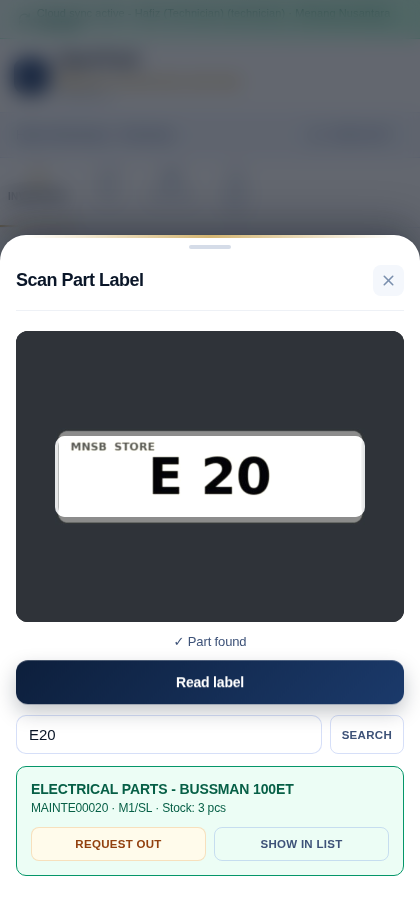
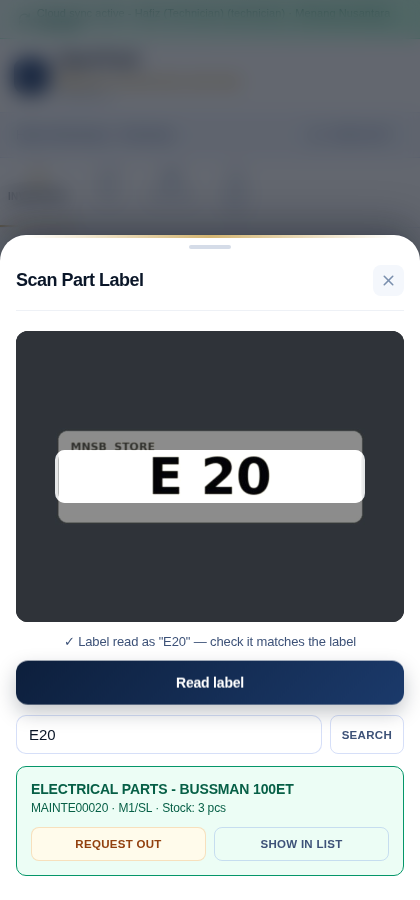
Scan Part Label: never open the wrong part on a misread
- Up to 3 pictures; a part opens only when two agree or a whole code is read.
  Otherwise the parts read are offered to pick from.
- One-line box so other label text (name, location) stays out; reads under
  3 characters (e.g. M1 from M1/SL) ignored; whole code beats short code.
- Shows "Label read as ..." so the user can check against the label.

Claude-Session: https://claude.ai/code/session_01H4NLRU5b8PG19nzesgo6Fy

diff --git a/public/index.html b/public/index.html
@@ -4203,7 +4203,7 @@ async function doPasswordReset(){
 .search-wrap input#s-inv{padding-right:48px}
 #m-label .lbl-view{position:relative;width:100%;border-radius:12px;overflow:hidden;background:#000;aspect-ratio:4/3}
 #m-label video{width:100%;height:100%;object-fit:cover;display:block}
-#m-label .lbl-box{position:absolute;left:10%;width:80%;top:36%;height:28%;border:3px solid rgba(255,255,255,.85);border-radius:10px;box-shadow:0 0 0 9999px rgba(0,0,0,.45);pointer-events:none}
+#m-label .lbl-box{position:absolute;left:10%;width:80%;top:41%;height:18%;border:3px solid rgba(255,255,255,.85);border-radius:10px;box-shadow:0 0 0 9999px rgba(0,0,0,.45);pointer-events:none}
 #m-label .lbl-row{display:flex;gap:8px;margin-top:10px}
 #m-label .lbl-row input{flex:1;min-width:0;box-sizing:border-box;padding:10px 12px;border:1px solid var(--border2,var(--border));border-radius:var(--radius);font-size:15px;font-family:inherit;text-transform:uppercase;background:var(--bg);color:var(--text)}
 #m-label .lbl-pick{display:flex;flex-direction:column;gap:6px;margin-top:10px;max-height:260px;overflow:auto}
@@ -4218,7 +4218,7 @@ async function doPasswordReset(){
     <button class="close" aria-label="Close" onclick="closeLabelScan()"><svg viewBox="0 0 24 24"><line x1="18" y1="6" x2="6" y2="18"/><line x1="6" y1="6" x2="18" y2="18"/></svg></button>
   </div>
   <div class="lbl-view"><video id="lbl-video" playsinline muted></video><div class="lbl-box"></div></div>
-  <div id="lbl-status" style="text-align:center;padding:12px 0 2px;font-size:13px;color:var(--text2)">Fit the part code inside the box, then tap Read label</div>
+  <div id="lbl-status" style="text-align:center;padding:12px 0 2px;font-size:13px;color:var(--text2)">Fit only the part code inside the box, hold steady, then tap Read label</div>
   <button class="sub-btn" id="lbl-read-btn" onclick="readLabel()" style="margin-top:10px">Read label</button>
   <div class="lbl-row">
     <input id="lbl-text" placeholder="Code, e.g. E12" autocomplete="off" spellcheck="false" onkeydown="if(event.key==='Enter')findLabelPart(this.value)">
@@ -4242,7 +4242,7 @@ async function openLabelScan(){
   document.getElementById('m-label').classList.add('open');
   document.getElementById('lbl-results').innerHTML='';
   document.getElementById('lbl-text').value='';
-  lblStatus('Fit the part code inside the box, then tap Read label');
+  lblStatus('Fit only the part code inside the box, hold steady, then tap Read label');
   loadOcr().catch(()=>{});   // start downloading while the camera opens
   try{
     lblStream=await navigator.mediaDevices.getUserMedia({video:{facingMode:{ideal:'environment'},width:{ideal:1920},height:{ideal:1080}}});
@@ -4274,7 +4274,7 @@ function loadOcr(){
 
 // The part of the frame inside the box, 800px wide, high-contrast grey, white margin
 function labelCanvas(src,sw,sh){
-  const x=sw*0.10, y=sh*0.36, w=sw*0.80, h=sh*0.28;
+  const x=sw*0.10, y=sh*0.41, w=sw*0.80, h=sh*0.18;
   const W=800, H=Math.round(h*W/w), pad=24, c=document.createElement('canvas');
   c.width=W+pad*2; c.height=H+pad*2;
   const g=c.getContext('2d'); g.fillStyle='#fff'; g.fillRect(0,0,c.width,c.height); g.drawImage(src,x,y,w,h,pad,pad,W,H);
@@ -4317,6 +4317,19 @@ function labelMatches(cand){
   return parts.filter(p=>{ const c=searchKey(p.code); return c.endsWith(k)&&keyHas(c,k); });
 }
 
+// The part a text points to, or null. A whole part code (MAINTW00068) beats a short
+// one (W68), longer beats shorter, and only codes matching exactly one part count.
+// Very short reads (under 3 letters+digits, e.g. "M1" from a location) are ignored.
+function labelPick(text){
+  let best=null;
+  for(const c of labelCandidates(text)){
+    const k=searchKey(c); if(k.length<3) continue;
+    const m=labelMatches(c); if(m.length!==1) continue;
+    const full=searchKey(m[0].code)===k, score=(full?1000:0)+k.length;
+    if(!best||score>best.score) best={part:m[0],cand:c,full,score};
+  }
+  return best;
+}
 async function readLabel(){
   if(lblBusy) return;
   const v=document.getElementById('lbl-video');
@@ -4325,31 +4338,50 @@ async function readLabel(){
   try{
     lblStatus(lblWorker?'Reading...':'Loading the text reader (first time only)...');
     const w=await loadOcr();
-    lblStatus('Reading...');
-    const f=videoFrameCanvas(v), c=labelCanvas(f,f.width,f.height);
-    // Two passes: "sparse text" finds a short code anywhere on the label (E 20);
-    // "single block" reads long codes more exactly (MAINTW00015). Stop when one part matches.
-    let text='';
-    for(const psm of ['11','6']){
-      await w.setParameters({tessedit_pageseg_mode:psm});
-      text+='\n'+((await w.recognize(c)).data.text||'');
-      if(labelCandidates(text).some(k=>labelMatches(k).length===1)) break;
+    // Up to 3 pictures. A part opens straight away only when two pictures agree,
+    // or one picture reads its whole part code. Otherwise the user picks.
+    const votes={}, picks=[]; let text='', done=null;
+    for(let i=0;i<3&&!done;i++){
+      lblStatus('Reading... ('+(i+1)+'/3) — hold steady');
+      if(i) await new Promise(r=>setTimeout(r,250));
+      const f=videoFrameCanvas(v), c=labelCanvas(f,f.width,f.height);
+      let t='', pick=null;
+      // "sparse text" finds a short code (E 20); "single block" reads long codes better
+      for(const psm of ['11','6']){
+        await w.setParameters({tessedit_pageseg_mode:psm});
+        t+='\n'+((await w.recognize(c)).data.text||'');
+        pick=labelPick(t); if(pick&&pick.full) break;
+      }
+      text+='\n'+t;
+      if(!pick) continue;
+      picks.push(pick);
+      votes[pick.part.id]=(votes[pick.part.id]||0)+1;
+      if(pick.full||votes[pick.part.id]>=2) done=pick;
+    }
+    if(done){ document.getElementById('lbl-text').value=done.cand; showLabelPart(done.part,done.cand); return; }
+    const seen=[...new Map(picks.map(x=>[x.part.id,x])).values()];
+    if(seen.length){
+      document.getElementById('lbl-text').value=seen[0].cand;
+      showLabelChoices(seen.map(x=>x.part),'Not sure — read "'+seen.map(x=>x.cand).join('" / "')+'". Check the label and tap the right part:');
+      return;
     }
     handleLabelText(text);
   }catch(e){ lblStatus((e&&e.message)||'Could not read the label — type the code below.'); }
   finally{ lblBusy=false; btn.disabled=false; }
 }
-// Called with the text that was read (also used by the tests)
+// Text from one reading (also used by the tests): opens the part only if it is certain
 function handleLabelText(text){
-  const cands=labelCandidates(text);
-  for(const c of cands){
-    const m=labelMatches(c);
-    if(m.length===1){ document.getElementById('lbl-text').value=c; showLabelPart(m[0]); return; }
-  }
-  const best=cands.find(c=>labelMatches(c).length)||cands[0]||'';
+  const pick=labelPick(text);
+  if(pick&&pick.full){ document.getElementById('lbl-text').value=pick.cand; showLabelPart(pick.part,pick.cand); return; }
+  const cands=labelCandidates(text).filter(c=>searchKey(c).length>=3);
+  const best=(pick&&pick.cand)||cands.find(c=>labelMatches(c).length)||cands[0]||'';
   document.getElementById('lbl-text').value=best;
   if(!best){ lblStatus('No code found — move closer, or type the code below.'); document.getElementById('lbl-results').innerHTML=''; return; }
   findLabelPart(best,true);
+}
+function showLabelChoices(list,msg){
+  lblStatus(msg);
+  document.getElementById('lbl-results').innerHTML='<div class="lbl-pick">'+list.map(p=>`<button class="lbl-item" onclick="showLabelPart(parts.find(x=>String(x.id)==='${lblEsc(p.id)}'))"><span><b>${lblEsc(p.code||'-')}</b><br><span style="font-size:12px;color:var(--text2)">${lblEsc(p.name)}</span></span><span style="font-size:12px;color:var(--text2);white-space:nowrap">${lblEsc(p.qty)} ${lblEsc(p.unit||'')}</span></button>`).join('')+'</div>';
 }
 // Search typed or read text with the same search as the inventory list
 function findLabelPart(q,fromCamera){
@@ -4357,16 +4389,15 @@ function findLabelPart(q,fromCamera){
   const el=document.getElementById('lbl-results'); el.innerHTML='';
   if(!q){ lblStatus('Type a code, e.g. E12'); return; }
   const exact=labelMatches(q);
-  if(exact.length===1){ showLabelPart(exact[0]); return; }
+  if(exact.length===1&&!fromCamera){ showLabelPart(exact[0]); return; }
   const list=(exact.length?exact:searchParts(parts,q)).slice(0,10);
   if(!list.length){ lblStatus((fromCamera?'Read "'+q+'" — ':'')+'no matching part. Correct the code and tap Search.'); return; }
-  lblStatus((fromCamera?'Read "'+q+'" — ':'')+list.length+' possible part'+(list.length>1?'s':'')+'. Tap the right one:');
-  el.innerHTML='<div class="lbl-pick">'+list.map(p=>`<button class="lbl-item" onclick="showLabelPart(parts.find(x=>String(x.id)==='${lblEsc(p.id)}'))"><span><b>${lblEsc(p.code||'-')}</b><br><span style="font-size:12px;color:var(--text2)">${lblEsc(p.name)}</span></span><span style="font-size:12px;color:var(--text2);white-space:nowrap">${lblEsc(p.qty)} ${lblEsc(p.unit||'')}</span></button>`).join('')+'</div>';
+  showLabelChoices(list,(fromCamera?'Read "'+q+'" — check the label. ':'')+list.length+' possible part'+(list.length>1?'s':'')+'. Tap the right one:');
 }
 // Same choices as the QR scanner: IN / OUT (or Request OUT) / RTN
-function showLabelPart(p){
+function showLabelPart(p,readAs){
   if(!p) return;
-  lblStatus('✓ Part found');
+  lblStatus(readAs?'✓ Label read as "'+readAs+'" — check it matches the label':'✓ Part found');
   const id=lblEsc(p.id);
   document.getElementById('lbl-results').innerHTML=`<div class="lbl-found" id="lbl-found" data-id="${id}">
     <div style="font-weight:600;color:var(--green-text);margin-bottom:4px">${lblEsc(p.name)}</div>

diff --git a/public/sw.js b/public/sw.js
@@ -1,4 +1,4 @@
-const CACHE = 'sparetrak-v7';
+const CACHE = 'sparetrak-v8';
 const URLS = ['/', '/index.html', '/manifest.json', '/icon-192.png', '/icon-512.png'];
 
 self.addEventListener('install', e => {

diff --git a/README.md b/README.md
@@ -23,7 +23,7 @@ tools/e2e.mjs            browser walkthrough on emulators (28 checks + screensho
 tools/test-migrate.mjs   migration rehearsal old project → new project (18 checks)
 tools/e2e-trial.mjs      free-trial sign-up + plan limits walkthrough (17 checks)
 tools/e2e-scale.mjs      cache/delta sync, atomic stock, alerts, batched import (25 checks)
-tools/e2e-label.mjs      Scan Part Label: fake camera + real OCR, QR scanner unchanged (13 checks)
+tools/e2e-label.mjs      Scan Part Label: fake camera + real OCR, QR scanner unchanged (17 checks)
 tools/make-label-fixtures.py  makes tests/fixtures/label-*.mjpeg (fake camera videos)
 tools/build-index.py     one-off: generated public/index.html from sharulapps/sparetrack.
                          Edit public/index.html directly from now on.
@@ -121,8 +121,11 @@ the same choices as the QR scanner. It is separate from the QR scanner (own moda
   (~5–10 MB, then cached by the browser). Runs on the phone; no server, no cost.
 - Only the area inside the box is read, letters/digits only, in two passes (sparse text, then
   single block). O/I/L/S/B/Z misread inside the number are corrected.
-- One part whose code ends with the code read → opens it. Several → a list to pick from.
-  None → the text stays in a box the user can correct and search.
+- Up to 3 pictures. A part opens straight away only when two pictures agree on it, or one
+  picture reads its whole part code. Otherwise the parts read are offered to pick from, with
+  what was read shown ("Label read as …"), so a misread never opens the wrong part silently.
+- Reads shorter than 3 letters+digits (e.g. "M1" from a location) are ignored. The box is one
+  line high so other text on the label stays out.
 - Works best on printed labels; handwriting is unreliable — QR labels remain the most reliable.
 
 ## Notes
